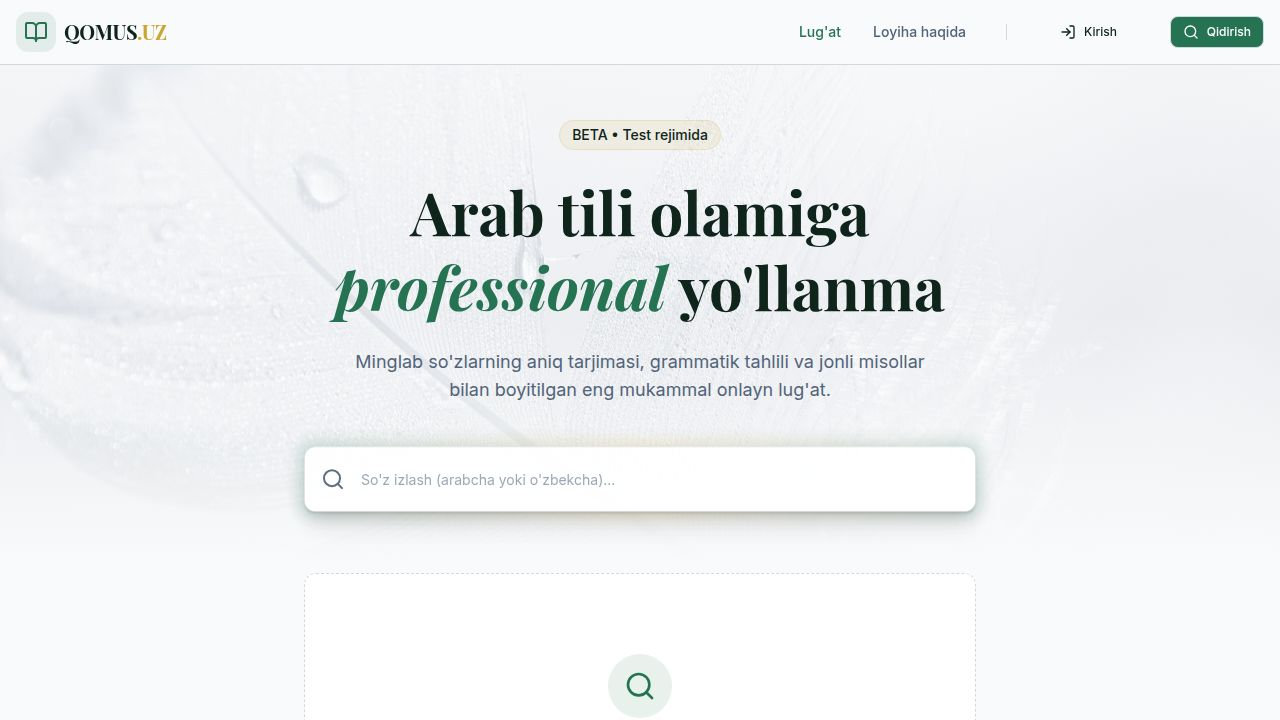
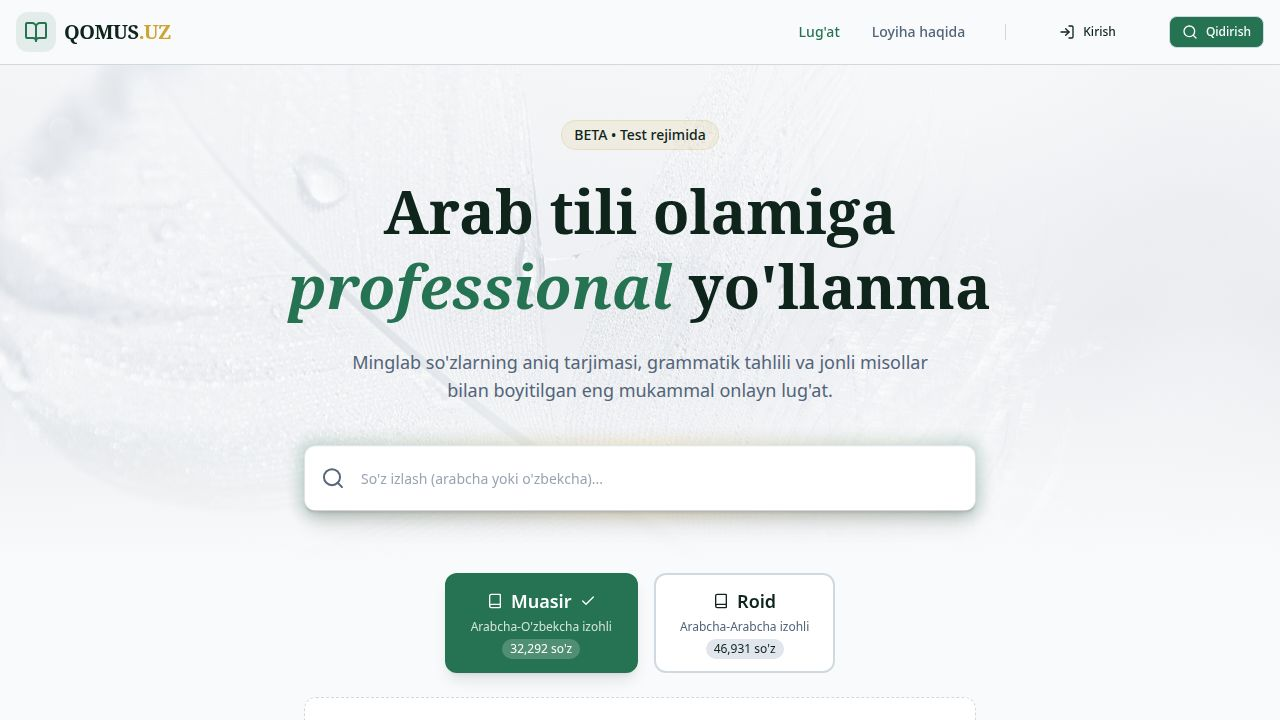
Add explanatory descriptions to dictionary selection buttons
Update `DICTIONARY_SOURCES` constant in `api.ts` to include descriptive text for each dictionary, and modify `DictionaryPage.tsx` to display these descriptions prominently below the dictionary names on selection buttons.

Replit-Commit-Author: Agent
Replit-Commit-Session-Id: 6bb24c68-ade6-4d53-be54-5b4cd9fc84cd
Replit-Commit-Checkpoint-Type: full_checkpoint
Replit-Commit-Event-Id: 82031dec-b330-4b74-82bc-88e8274e2176
Replit-Commit-Screenshot-Url: https://storage.googleapis.com/screenshot-production-us-central1/740fe0c2-0da0-42c4-8504-c8e7afdcc9bc/6bb24c68-ade6-4d53-be54-5b4cd9fc84cd/N4FTA7b
Replit-Helium-Checkpoint-Created: true

diff --git a/client/src/pages/DictionaryPage.tsx b/client/src/pages/DictionaryPage.tsx
@@ -47,30 +47,39 @@ export default function DictionaryPage() {
       <Hero searchTerm={searchTerm} setSearchTerm={setSearchTerm} />
       
       <div className="container mx-auto px-4 py-12 -mt-10 relative z-30">
-        <div className="flex flex-wrap gap-3 mb-6 justify-center">
+        <div className="flex flex-wrap gap-4 mb-6 justify-center">
           {DICTIONARY_SOURCES.map((source) => (
             <button
               key={source.id}
               data-testid={`btn-source-${source.id}`}
               onClick={() => toggleSource(source.id)}
-              className={`flex items-center gap-2 px-4 py-2 rounded-full border transition-all ${
+              className={`flex flex-col items-center px-6 py-3 rounded-xl border-2 transition-all min-w-[160px] ${
                 selectedSources.includes(source.id)
-                  ? 'bg-primary text-primary-foreground border-primary'
-                  : 'bg-card text-muted-foreground border-border hover:border-primary/50'
+                  ? 'bg-primary text-primary-foreground border-primary shadow-lg'
+                  : 'bg-card text-foreground border-border hover:border-primary/50 hover:shadow-md'
               }`}
             >
-              <Book className="h-4 w-4" />
-              <span className="font-medium">{source.name}</span>
-              <span className={`text-xs px-2 py-0.5 rounded-full ${
+              <div className="flex items-center gap-2 mb-1">
+                <Book className="h-4 w-4" />
+                <span className="font-semibold text-lg">{source.name}</span>
+                {selectedSources.includes(source.id) && (
+                  <Check className="h-4 w-4" />
+                )}
+              </div>
+              <span className={`text-xs ${
+                selectedSources.includes(source.id)
+                  ? 'text-primary-foreground/80'
+                  : 'text-muted-foreground'
+              }`}>
+                {source.description}
+              </span>
+              <span className={`text-xs mt-1 px-2 py-0.5 rounded-full ${
                 selectedSources.includes(source.id)
                   ? 'bg-primary-foreground/20'
                   : 'bg-muted'
               }`}>
-                {getSourceCount(source.id).toLocaleString()}
+                {getSourceCount(source.id).toLocaleString()} so'z
               </span>
-              {selectedSources.includes(source.id) && (
-                <Check className="h-4 w-4" />
-              )}
             </button>
           ))}
         </div>

diff --git a/client/src/lib/api.ts b/client/src/lib/api.ts
@@ -20,8 +20,8 @@ export interface DictionaryStats {
 
 // Available dictionary sources
 export const DICTIONARY_SOURCES = [
-  { id: 'Muasir', name: 'Muasir', description: 'Zamonaviy arab tili lug\'ati - tarjimali' },
-  { id: 'Roid', name: 'Roid', description: 'Ar-Roid lug\'ati - arabcha izohli' },
+  { id: 'Muasir', name: 'Muasir', description: 'Arabcha-O\'zbekcha izohli' },
+  { id: 'Roid', name: 'Roid', description: 'Arabcha-Arabcha izohli' },
 ] as const;
 
 // API Functions
